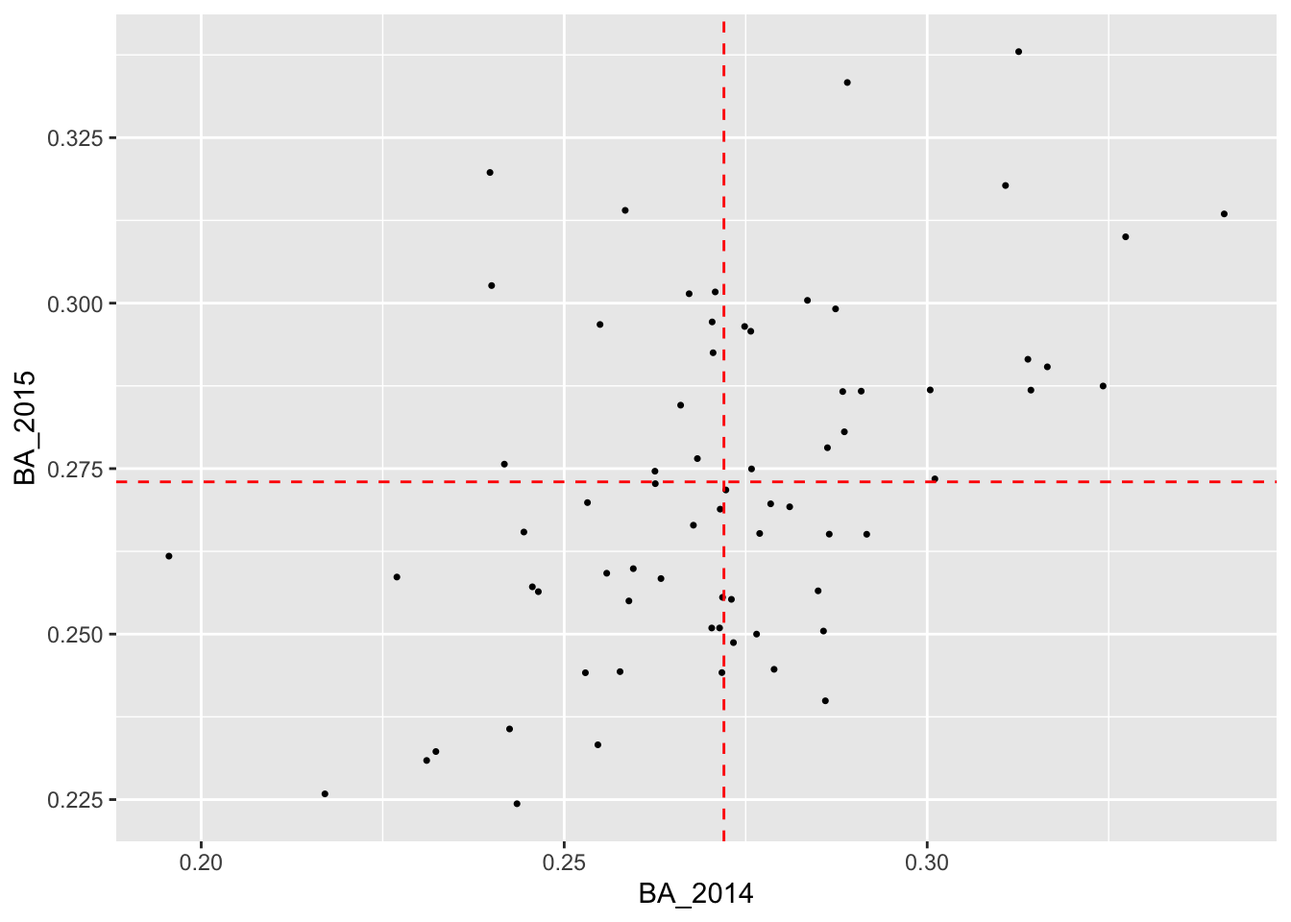
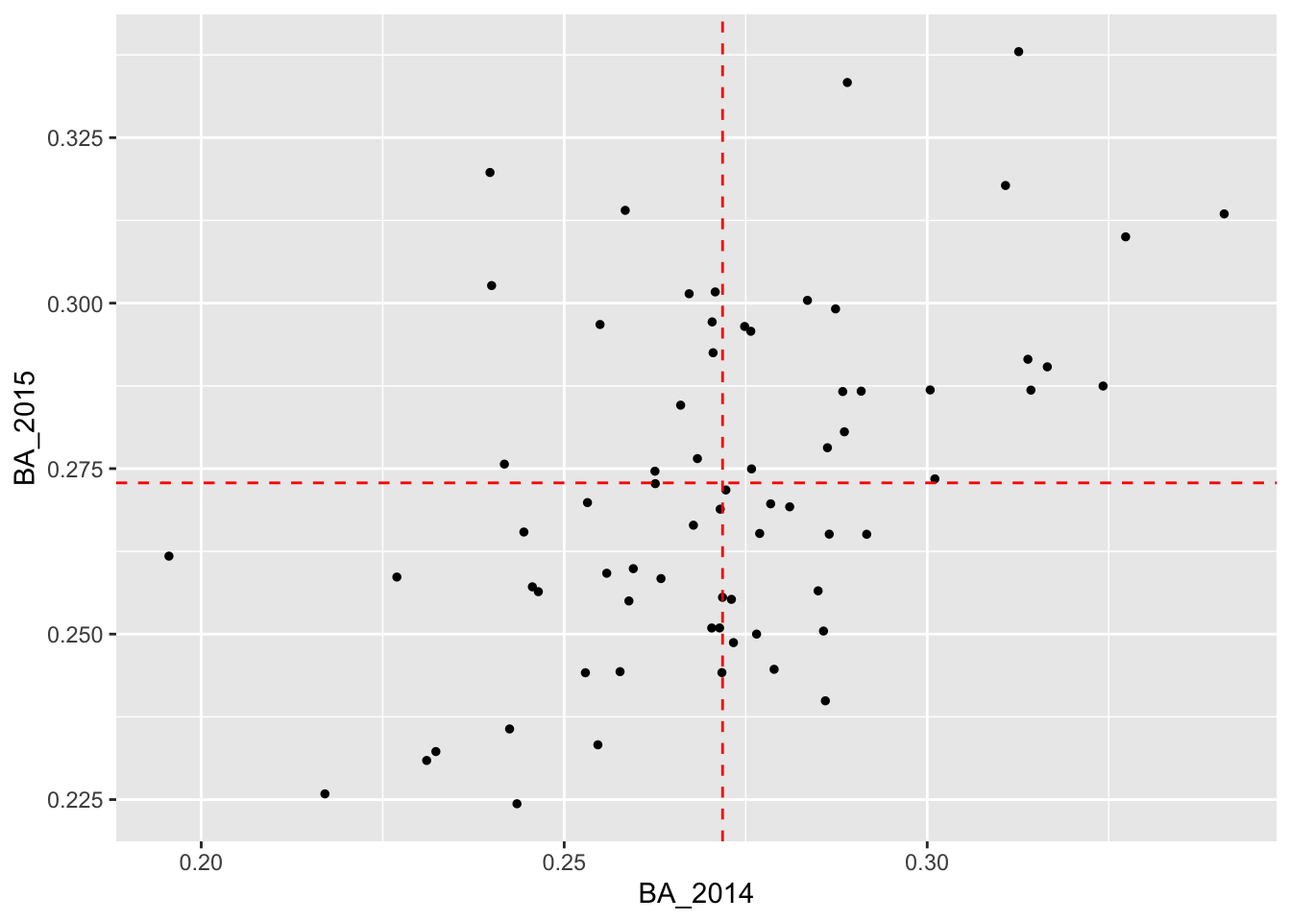
edits to lec 4

diff --git a/lecture4.html b/lecture4.html
@@ -583,7 +583,11 @@ how well each method predicts the actual 2015 batting averages in our
 tbl. We will add columns to our tbl containing these predictions. To get
 things started, let’s add a column containing the overall mean of the
 2015 batting averages. It turns out that this mean is 0.273, whereas the
-mean 2014 batting average is 0.272.</p>
+mean 2014 batting average is 0.272. We will set these values equal to
+the variables <code>avg_2014</code>, and <code>avg_2015</code>,
+respectively, to use in our plots. We can do this by utilizing the
+<code>$</code> operator to feed an entire column into our
+<code>mean()</code> function.</p>
 <div class="sourceCode" id="cb8"><pre class="sourceCode r"><code class="sourceCode r"><span id="cb8-1"><a href="#cb8-1" tabindex="-1"></a>batting_2014_2015 <span class="ot">&lt;-</span></span>
 <span id="cb8-2"><a href="#cb8-2" tabindex="-1"></a>  batting_2014_2015 <span class="sc">%&gt;%</span> </span>
 <span id="cb8-3"><a href="#cb8-3" tabindex="-1"></a>  <span class="fu">mutate</span>(<span class="at">yhat_0 =</span> <span class="fu">mean</span>(BA_2015))</span>
@@ -602,17 +606,19 @@ mean 2014 batting average is 0.272.</p>
 ##  9 brantmi02   0.327   0.310  0.273
 ## 10 braunry02   0.266   0.285  0.273
 ## # ℹ 60 more rows</code></pre>
+<div class="sourceCode" id="cb10"><pre class="sourceCode r"><code class="sourceCode r"><span id="cb10-1"><a href="#cb10-1" tabindex="-1"></a>avg_2014 <span class="ot">=</span> <span class="fu">mean</span>(batting_2014_2015<span class="sc">$</span>BA_2014)</span>
+<span id="cb10-2"><a href="#cb10-2" tabindex="-1"></a>avg_2015 <span class="ot">=</span> <span class="fu">mean</span>(batting_2014_2015<span class="sc">$</span>BA_2015)</span></code></pre></div>
 <p>If the 2014 batting average had no predictive power at all, then this
 overall mean will be the best prediction model possible, given what data
 we have. Plotting the 2015 batting averages against the 2014 batting
 averages allows us to assess visually whether there is any relationship
-between the two variables.We have added dashed red horizontal and
+between the two variables. We have added dashed red horizontal and
 vertical lines at the overall means of the 2014 and 2015 data,
 respectively.</p>
-<div class="sourceCode" id="cb10"><pre class="sourceCode r"><code class="sourceCode r"><span id="cb10-1"><a href="#cb10-1" tabindex="-1"></a><span class="fu">ggplot</span>(batting_2014_2015) <span class="sc">+</span></span>
-<span id="cb10-2"><a href="#cb10-2" tabindex="-1"></a>  <span class="fu">geom_point</span>(<span class="fu">aes</span>(<span class="at">x =</span> BA_2014, <span class="at">y =</span> BA_2015), <span class="at">col =</span> <span class="st">&#39;black&#39;</span>, <span class="at">shape =</span> <span class="dv">16</span>, <span class="at">size =</span> <span class="fl">0.9</span>) <span class="sc">+</span></span>
-<span id="cb10-3"><a href="#cb10-3" tabindex="-1"></a>  <span class="fu">geom_hline</span>(<span class="at">yintercept =</span> <span class="fl">0.273</span>, <span class="at">col =</span> <span class="st">&#39;red&#39;</span>, <span class="at">lty =</span> <span class="dv">2</span>) <span class="sc">+</span></span>
-<span id="cb10-4"><a href="#cb10-4" tabindex="-1"></a>  <span class="fu">geom_vline</span>(<span class="at">xintercept =</span> <span class="fl">0.272</span>, <span class="at">col =</span> <span class="st">&#39;red&#39;</span>, <span class="at">lty =</span> <span class="dv">2</span>)</span></code></pre></div>
+<div class="sourceCode" id="cb11"><pre class="sourceCode r"><code class="sourceCode r"><span id="cb11-1"><a href="#cb11-1" tabindex="-1"></a><span class="fu">ggplot</span>(batting_2014_2015) <span class="sc">+</span></span>
+<span id="cb11-2"><a href="#cb11-2" tabindex="-1"></a>  <span class="fu">geom_point</span>(<span class="fu">aes</span>(<span class="at">x =</span> BA_2014, <span class="at">y =</span> BA_2015), <span class="at">col =</span> <span class="st">&#39;black&#39;</span>, <span class="at">size =</span> <span class="dv">1</span>) <span class="sc">+</span></span>
+<span id="cb11-3"><a href="#cb11-3" tabindex="-1"></a>  <span class="fu">geom_hline</span>(<span class="at">yintercept =</span> avg_2015, <span class="at">col =</span> <span class="st">&#39;red&#39;</span>, <span class="at">lty =</span> <span class="dv">2</span>) <span class="sc">+</span></span>
+<span id="cb11-4"><a href="#cb11-4" tabindex="-1"></a>  <span class="fu">geom_vline</span>(<span class="at">xintercept =</span> avg_2014, <span class="at">col =</span> <span class="st">&#39;red&#39;</span>, <span class="at">lty =</span> <span class="dv">2</span>)</span></code></pre></div>
 <p><img src="lecture4_files/figure-html/plot%20batting%20yhat_0-1.png" width="672" style="display: block; margin: auto;" /></p>
 <p>It certainly looks like there is a relationship! So it’s at least
 plausible that if we use the 2014 batting averages to make predictions
@@ -642,14 +648,14 @@ according to which interval they fall.</p>
 <p>The following code chunk does precisely that with two more steps:
 once we have made our predictions, we ungroup the tbl and we can drop
 the column indicating the interval in which our observation falls.</p>
-<div class="sourceCode" id="cb11"><pre class="sourceCode r"><code class="sourceCode r"><span id="cb11-1"><a href="#cb11-1" tabindex="-1"></a>batting_2014_2015 <span class="ot">&lt;-</span> </span>
-<span id="cb11-2"><a href="#cb11-2" tabindex="-1"></a>  batting_2014_2015 <span class="sc">%&gt;%</span></span>
-<span id="cb11-3"><a href="#cb11-3" tabindex="-1"></a>  <span class="fu">mutate</span>(<span class="at">bins =</span> <span class="fu">cut</span>(BA_2014, <span class="at">breaks =</span> <span class="fu">c</span>(<span class="fl">0.15</span>, <span class="fl">0.272</span>, <span class="fl">0.40</span>))) <span class="sc">%&gt;%</span></span>
-<span id="cb11-4"><a href="#cb11-4" tabindex="-1"></a>  <span class="fu">group_by</span>(bins) <span class="sc">%&gt;%</span></span>
-<span id="cb11-5"><a href="#cb11-5" tabindex="-1"></a>  <span class="fu">mutate</span>(<span class="at">yhat_1 =</span> <span class="fu">mean</span>(BA_2015)) <span class="sc">%&gt;%</span></span>
-<span id="cb11-6"><a href="#cb11-6" tabindex="-1"></a>  <span class="fu">ungroup</span>() <span class="sc">%&gt;%</span></span>
-<span id="cb11-7"><a href="#cb11-7" tabindex="-1"></a>  <span class="fu">select</span>(<span class="sc">-</span>bins)</span>
-<span id="cb11-8"><a href="#cb11-8" tabindex="-1"></a>batting_2014_2015</span></code></pre></div>
+<div class="sourceCode" id="cb12"><pre class="sourceCode r"><code class="sourceCode r"><span id="cb12-1"><a href="#cb12-1" tabindex="-1"></a>batting_2014_2015 <span class="ot">&lt;-</span> </span>
+<span id="cb12-2"><a href="#cb12-2" tabindex="-1"></a>  batting_2014_2015 <span class="sc">%&gt;%</span></span>
+<span id="cb12-3"><a href="#cb12-3" tabindex="-1"></a>  <span class="fu">mutate</span>(<span class="at">bins =</span> <span class="fu">cut</span>(BA_2014, <span class="at">breaks =</span> <span class="fu">c</span>(<span class="fl">0.15</span>, <span class="fl">0.272</span>, <span class="fl">0.40</span>))) <span class="sc">%&gt;%</span></span>
+<span id="cb12-4"><a href="#cb12-4" tabindex="-1"></a>  <span class="fu">group_by</span>(bins) <span class="sc">%&gt;%</span></span>
+<span id="cb12-5"><a href="#cb12-5" tabindex="-1"></a>  <span class="fu">mutate</span>(<span class="at">yhat_1 =</span> <span class="fu">mean</span>(BA_2015)) <span class="sc">%&gt;%</span></span>
+<span id="cb12-6"><a href="#cb12-6" tabindex="-1"></a>  <span class="fu">ungroup</span>() <span class="sc">%&gt;%</span></span>
+<span id="cb12-7"><a href="#cb12-7" tabindex="-1"></a>  <span class="fu">select</span>(<span class="sc">-</span>bins)</span>
+<span id="cb12-8"><a href="#cb12-8" tabindex="-1"></a>batting_2014_2015</span></code></pre></div>
 <pre><code>## # A tibble: 70 × 5
 ##    playerID  BA_2014 BA_2015 yhat_0 yhat_1
 ##    &lt;chr&gt;       &lt;dbl&gt;   &lt;dbl&gt;  &lt;dbl&gt;  &lt;dbl&gt;
@@ -678,10 +684,10 @@ second elements, 0.272, is the overall mean of the BA_2014 values. The
 last element, 0.40 is much greater than the largest BA_2014 value.</p>
 <p>Now that we have two different ways of predicting 2015 batting
 averages, let us see how they compare, visually.</p>
-<div class="sourceCode" id="cb13"><pre class="sourceCode r"><code class="sourceCode r"><span id="cb13-1"><a href="#cb13-1" tabindex="-1"></a><span class="fu">ggplot</span>(batting_2014_2015) <span class="sc">+</span></span>
-<span id="cb13-2"><a href="#cb13-2" tabindex="-1"></a>  <span class="fu">geom_point</span>(<span class="fu">aes</span>(<span class="at">x =</span> BA_2014, <span class="at">y =</span> BA_2015), <span class="at">col =</span> <span class="st">&#39;black&#39;</span>, <span class="at">shape =</span> <span class="dv">16</span>, <span class="at">size =</span> <span class="dv">2</span>) <span class="sc">+</span></span>
-<span id="cb13-3"><a href="#cb13-3" tabindex="-1"></a>  <span class="fu">geom_point</span>(<span class="fu">aes</span>(<span class="at">x =</span> BA_2014, <span class="at">y =</span> yhat_0), <span class="at">col =</span> <span class="st">&#39;lightcoral&#39;</span>, <span class="at">size =</span> <span class="dv">2</span>) <span class="sc">+</span> </span>
-<span id="cb13-4"><a href="#cb13-4" tabindex="-1"></a>  <span class="fu">geom_point</span>(<span class="fu">aes</span>(<span class="at">x =</span> BA_2014, <span class="at">y =</span> yhat_1), <span class="at">col =</span> <span class="st">&#39;lightblue&#39;</span>, <span class="at">size =</span> <span class="dv">2</span>)</span></code></pre></div>
+<div class="sourceCode" id="cb14"><pre class="sourceCode r"><code class="sourceCode r"><span id="cb14-1"><a href="#cb14-1" tabindex="-1"></a><span class="fu">ggplot</span>(batting_2014_2015) <span class="sc">+</span></span>
+<span id="cb14-2"><a href="#cb14-2" tabindex="-1"></a>  <span class="fu">geom_point</span>(<span class="fu">aes</span>(<span class="at">x =</span> BA_2014, <span class="at">y =</span> BA_2015), <span class="at">col =</span> <span class="st">&#39;black&#39;</span>, <span class="at">size =</span> <span class="dv">2</span>) <span class="sc">+</span></span>
+<span id="cb14-3"><a href="#cb14-3" tabindex="-1"></a>  <span class="fu">geom_point</span>(<span class="fu">aes</span>(<span class="at">x =</span> BA_2014, <span class="at">y =</span> yhat_0), <span class="at">col =</span> <span class="st">&#39;lightcoral&#39;</span>, <span class="at">size =</span> <span class="dv">2</span>) <span class="sc">+</span> </span>
+<span id="cb14-4"><a href="#cb14-4" tabindex="-1"></a>  <span class="fu">geom_point</span>(<span class="fu">aes</span>(<span class="at">x =</span> BA_2014, <span class="at">y =</span> yhat_1), <span class="at">col =</span> <span class="st">&#39;lightblue&#39;</span>, <span class="at">size =</span> <span class="dv">2</span>)</span></code></pre></div>
 <p><img src="lecture4_files/figure-html/plot%20batting%20yhat_1-1.png" width="672" style="display: block; margin: auto;" /></p>
 <p>Visually it appears that the blue points (corresponding to yhat_1)
 are a bit closer to the actual values than the red points (corresponding
@@ -697,22 +703,22 @@ wanted to divide the interval [0,1] into 10 equally sized intervals:
 (0,0.1], (0.1, 0.2], …, (0.9, 1]. To get the vector of cutpoints, we
 need to tell <code>seq()</code> either how many points we wanted or the
 spacing between the points:</p>
-<div class="sourceCode" id="cb14"><pre class="sourceCode r"><code class="sourceCode r"><span id="cb14-1"><a href="#cb14-1" tabindex="-1"></a><span class="fu">seq</span>(<span class="at">from =</span> <span class="dv">0</span>, <span class="at">to =</span> <span class="dv">1</span>, <span class="at">length =</span> <span class="dv">11</span>)</span></code></pre></div>
+<div class="sourceCode" id="cb15"><pre class="sourceCode r"><code class="sourceCode r"><span id="cb15-1"><a href="#cb15-1" tabindex="-1"></a><span class="fu">seq</span>(<span class="at">from =</span> <span class="dv">0</span>, <span class="at">to =</span> <span class="dv">1</span>, <span class="at">length =</span> <span class="dv">11</span>)</span></code></pre></div>
 <pre><code>##  [1] 0.0 0.1 0.2 0.3 0.4 0.5 0.6 0.7 0.8 0.9 1.0</code></pre>
-<div class="sourceCode" id="cb16"><pre class="sourceCode r"><code class="sourceCode r"><span id="cb16-1"><a href="#cb16-1" tabindex="-1"></a><span class="fu">seq</span>(<span class="at">from =</span> <span class="dv">0</span>, <span class="at">to =</span> <span class="dv">1</span>, <span class="at">by =</span> <span class="fl">0.1</span>)</span></code></pre></div>
+<div class="sourceCode" id="cb17"><pre class="sourceCode r"><code class="sourceCode r"><span id="cb17-1"><a href="#cb17-1" tabindex="-1"></a><span class="fu">seq</span>(<span class="at">from =</span> <span class="dv">0</span>, <span class="at">to =</span> <span class="dv">1</span>, <span class="at">by =</span> <span class="fl">0.1</span>)</span></code></pre></div>
 <pre><code>##  [1] 0.0 0.1 0.2 0.3 0.4 0.5 0.6 0.7 0.8 0.9 1.0</code></pre>
 <p>So let’s say we wanted to divide the 2014 batting averages into
 intervals of length 0.05 and predict 2015 batting averages using the
 average BA_2015 values within the resulting bins. We could run the
 following:</p>
-<div class="sourceCode" id="cb18"><pre class="sourceCode r"><code class="sourceCode r"><span id="cb18-1"><a href="#cb18-1" tabindex="-1"></a>batting_2014_2015 <span class="ot">&lt;-</span> </span>
-<span id="cb18-2"><a href="#cb18-2" tabindex="-1"></a>  batting_2014_2015 <span class="sc">%&gt;%</span></span>
-<span id="cb18-3"><a href="#cb18-3" tabindex="-1"></a>  <span class="fu">mutate</span>(<span class="at">bins =</span> <span class="fu">cut</span>(BA_2014, <span class="at">breaks =</span> <span class="fu">seq</span>(<span class="at">from =</span> <span class="fl">0.15</span>, <span class="at">to =</span> <span class="fl">0.4</span>, <span class="at">by =</span> <span class="fl">0.05</span>))) <span class="sc">%&gt;%</span></span>
-<span id="cb18-4"><a href="#cb18-4" tabindex="-1"></a>  <span class="fu">group_by</span>(bins) <span class="sc">%&gt;%</span></span>
-<span id="cb18-5"><a href="#cb18-5" tabindex="-1"></a>  <span class="fu">mutate</span>(<span class="at">yhat_2 =</span> <span class="fu">mean</span>(BA_2015)) <span class="sc">%&gt;%</span></span>
-<span id="cb18-6"><a href="#cb18-6" tabindex="-1"></a>  <span class="fu">ungroup</span>() <span class="sc">%&gt;%</span></span>
-<span id="cb18-7"><a href="#cb18-7" tabindex="-1"></a>  <span class="fu">select</span>(<span class="sc">-</span>bins)</span>
-<span id="cb18-8"><a href="#cb18-8" tabindex="-1"></a>batting_2014_2015</span></code></pre></div>
+<div class="sourceCode" id="cb19"><pre class="sourceCode r"><code class="sourceCode r"><span id="cb19-1"><a href="#cb19-1" tabindex="-1"></a>batting_2014_2015 <span class="ot">&lt;-</span> </span>
+<span id="cb19-2"><a href="#cb19-2" tabindex="-1"></a>  batting_2014_2015 <span class="sc">%&gt;%</span></span>
+<span id="cb19-3"><a href="#cb19-3" tabindex="-1"></a>  <span class="fu">mutate</span>(<span class="at">bins =</span> <span class="fu">cut</span>(BA_2014, <span class="at">breaks =</span> <span class="fu">seq</span>(<span class="at">from =</span> <span class="fl">0.15</span>, <span class="at">to =</span> <span class="fl">0.4</span>, <span class="at">by =</span> <span class="fl">0.05</span>))) <span class="sc">%&gt;%</span></span>
+<span id="cb19-4"><a href="#cb19-4" tabindex="-1"></a>  <span class="fu">group_by</span>(bins) <span class="sc">%&gt;%</span></span>
+<span id="cb19-5"><a href="#cb19-5" tabindex="-1"></a>  <span class="fu">mutate</span>(<span class="at">yhat_2 =</span> <span class="fu">mean</span>(BA_2015)) <span class="sc">%&gt;%</span></span>
+<span id="cb19-6"><a href="#cb19-6" tabindex="-1"></a>  <span class="fu">ungroup</span>() <span class="sc">%&gt;%</span></span>
+<span id="cb19-7"><a href="#cb19-7" tabindex="-1"></a>  <span class="fu">select</span>(<span class="sc">-</span>bins)</span>
+<span id="cb19-8"><a href="#cb19-8" tabindex="-1"></a>batting_2014_2015</span></code></pre></div>
 <pre><code>## # A tibble: 70 × 6
 ##    playerID  BA_2014 BA_2015 yhat_0 yhat_1 yhat_2
 ##    &lt;chr&gt;       &lt;dbl&gt;   &lt;dbl&gt;  &lt;dbl&gt;  &lt;dbl&gt;  &lt;dbl&gt;
@@ -729,11 +735,11 @@ following:</p>
 ## # ℹ 60 more rows</code></pre>
 <p>We can also visualize our new predictions, this time with green
 points.</p>
-<div class="sourceCode" id="cb20"><pre class="sourceCode r"><code class="sourceCode r"><span id="cb20-1"><a href="#cb20-1" tabindex="-1"></a><span class="fu">ggplot</span>(batting_2014_2015) <span class="sc">+</span></span>
-<span id="cb20-2"><a href="#cb20-2" tabindex="-1"></a>  <span class="fu">geom_point</span>(<span class="fu">aes</span>(<span class="at">x =</span> BA_2014, <span class="at">y =</span> BA_2015), <span class="at">shape =</span> <span class="dv">16</span>, <span class="at">size =</span> <span class="dv">2</span>) <span class="sc">+</span> </span>
-<span id="cb20-3"><a href="#cb20-3" tabindex="-1"></a>  <span class="fu">geom_point</span>(<span class="fu">aes</span>(<span class="at">x =</span> BA_2014, <span class="at">y =</span> yhat_0), <span class="at">col =</span> <span class="st">&#39;lightcoral&#39;</span>, <span class="at">size =</span> <span class="dv">2</span>, <span class="at">alpha =</span> <span class="fl">0.8</span>) <span class="sc">+</span> </span>
-<span id="cb20-4"><a href="#cb20-4" tabindex="-1"></a>  <span class="fu">geom_point</span>(<span class="fu">aes</span>(<span class="at">x =</span> BA_2014, <span class="at">y =</span> yhat_1), <span class="at">col =</span> <span class="st">&#39;lightblue&#39;</span>,  <span class="at">size =</span> <span class="dv">2</span>, <span class="at">alpha =</span> <span class="fl">0.8</span>) <span class="sc">+</span></span>
-<span id="cb20-5"><a href="#cb20-5" tabindex="-1"></a>  <span class="fu">geom_point</span>(<span class="fu">aes</span>(<span class="at">x =</span> BA_2014, <span class="at">y =</span> yhat_2), <span class="at">col =</span> <span class="st">&#39;darkseagreen3&#39;</span>, <span class="at">size =</span> <span class="dv">2</span>, <span class="at">alpha =</span> <span class="fl">0.8</span>)</span></code></pre></div>
+<div class="sourceCode" id="cb21"><pre class="sourceCode r"><code class="sourceCode r"><span id="cb21-1"><a href="#cb21-1" tabindex="-1"></a><span class="fu">ggplot</span>(batting_2014_2015) <span class="sc">+</span></span>
+<span id="cb21-2"><a href="#cb21-2" tabindex="-1"></a>  <span class="fu">geom_point</span>(<span class="fu">aes</span>(<span class="at">x =</span> BA_2014, <span class="at">y =</span> BA_2015), <span class="at">size =</span> <span class="dv">2</span>) <span class="sc">+</span> </span>
+<span id="cb21-3"><a href="#cb21-3" tabindex="-1"></a>  <span class="fu">geom_point</span>(<span class="fu">aes</span>(<span class="at">x =</span> BA_2014, <span class="at">y =</span> yhat_0), <span class="at">col =</span> <span class="st">&#39;lightcoral&#39;</span>, <span class="at">size =</span> <span class="dv">2</span>, <span class="at">alpha =</span> <span class="fl">0.8</span>) <span class="sc">+</span> </span>
+<span id="cb21-4"><a href="#cb21-4" tabindex="-1"></a>  <span class="fu">geom_point</span>(<span class="fu">aes</span>(<span class="at">x =</span> BA_2014, <span class="at">y =</span> yhat_1), <span class="at">col =</span> <span class="st">&#39;lightblue&#39;</span>,  <span class="at">size =</span> <span class="dv">2</span>, <span class="at">alpha =</span> <span class="fl">0.8</span>) <span class="sc">+</span></span>
+<span id="cb21-5"><a href="#cb21-5" tabindex="-1"></a>  <span class="fu">geom_point</span>(<span class="fu">aes</span>(<span class="at">x =</span> BA_2014, <span class="at">y =</span> yhat_2), <span class="at">col =</span> <span class="st">&#39;darkseagreen3&#39;</span>, <span class="at">size =</span> <span class="dv">2</span>, <span class="at">alpha =</span> <span class="fl">0.8</span>)</span></code></pre></div>
 <p><img src="lecture4_files/figure-html/plot%20batting%20yhat_2-1.png" width="672" style="display: block; margin: auto;" /></p>
 <p>It appears that we are able to perfectly predict the 2015 batting
 average of the player with the lowest batting average in 2014. Why do
@@ -743,29 +749,29 @@ averages into bins of length 0.005 and 0.001. The code below generates
 these predictions, saves them to columns called “yhat_3” and “yhat_4” in
 our tbl, and then adds the predictions to the plot in pink and
 orange.</p>
-<div class="sourceCode" id="cb21"><pre class="sourceCode r"><code class="sourceCode r"><span id="cb21-1"><a href="#cb21-1" tabindex="-1"></a>batting_2014_2015 <span class="ot">&lt;-</span> </span>
-<span id="cb21-2"><a href="#cb21-2" tabindex="-1"></a>  batting_2014_2015 <span class="sc">%&gt;%</span></span>
-<span id="cb21-3"><a href="#cb21-3" tabindex="-1"></a>  <span class="fu">mutate</span>(<span class="at">bins =</span> <span class="fu">cut</span>(BA_2014, <span class="at">breaks =</span> <span class="fu">seq</span>(<span class="at">from =</span> <span class="fl">0.15</span>, <span class="at">to =</span> <span class="fl">0.4</span>, <span class="at">by =</span> <span class="fl">0.005</span>))) <span class="sc">%&gt;%</span></span>
-<span id="cb21-4"><a href="#cb21-4" tabindex="-1"></a>  <span class="fu">group_by</span>(bins) <span class="sc">%&gt;%</span></span>
-<span id="cb21-5"><a href="#cb21-5" tabindex="-1"></a>  <span class="fu">mutate</span>(<span class="at">yhat_3 =</span> <span class="fu">mean</span>(BA_2015)) <span class="sc">%&gt;%</span></span>
-<span id="cb21-6"><a href="#cb21-6" tabindex="-1"></a>  <span class="fu">ungroup</span>() <span class="sc">%&gt;%</span></span>
-<span id="cb21-7"><a href="#cb21-7" tabindex="-1"></a>  <span class="fu">select</span>(<span class="sc">-</span>bins)</span>
-<span id="cb21-8"><a href="#cb21-8" tabindex="-1"></a></span>
-<span id="cb21-9"><a href="#cb21-9" tabindex="-1"></a>batting_2014_2015 <span class="ot">&lt;-</span> </span>
-<span id="cb21-10"><a href="#cb21-10" tabindex="-1"></a>  batting_2014_2015 <span class="sc">%&gt;%</span></span>
-<span id="cb21-11"><a href="#cb21-11" tabindex="-1"></a>  <span class="fu">mutate</span>(<span class="at">bins =</span> <span class="fu">cut</span>(BA_2014, <span class="at">breaks =</span> <span class="fu">seq</span>(<span class="at">from =</span> <span class="fl">0.15</span>, <span class="at">to =</span> <span class="fl">0.4</span>, <span class="at">by =</span> <span class="fl">0.001</span>))) <span class="sc">%&gt;%</span></span>
-<span id="cb21-12"><a href="#cb21-12" tabindex="-1"></a>  <span class="fu">group_by</span>(bins) <span class="sc">%&gt;%</span></span>
-<span id="cb21-13"><a href="#cb21-13" tabindex="-1"></a>  <span class="fu">mutate</span>(<span class="at">yhat_4 =</span> <span class="fu">mean</span>(BA_2015)) <span class="sc">%&gt;%</span></span>
-<span id="cb21-14"><a href="#cb21-14" tabindex="-1"></a>  <span class="fu">ungroup</span>() <span class="sc">%&gt;%</span></span>
-<span id="cb21-15"><a href="#cb21-15" tabindex="-1"></a>  <span class="fu">select</span>(<span class="sc">-</span>bins)</span>
-<span id="cb21-16"><a href="#cb21-16" tabindex="-1"></a></span>
-<span id="cb21-17"><a href="#cb21-17" tabindex="-1"></a><span class="fu">ggplot</span>(batting_2014_2015) <span class="sc">+</span></span>
-<span id="cb21-18"><a href="#cb21-18" tabindex="-1"></a>  <span class="fu">geom_point</span>(<span class="fu">aes</span>(<span class="at">x =</span> BA_2014, <span class="at">y =</span> BA_2015), <span class="at">size =</span> <span class="dv">2</span>) <span class="sc">+</span> </span>
-<span id="cb21-19"><a href="#cb21-19" tabindex="-1"></a>  <span class="fu">geom_point</span>(<span class="fu">aes</span>(<span class="at">x =</span> BA_2014, <span class="at">y =</span> yhat_0), <span class="at">col =</span> <span class="st">&#39;lightcoral&#39;</span>, <span class="at">size =</span> <span class="dv">2</span>) <span class="sc">+</span> </span>
-<span id="cb21-20"><a href="#cb21-20" tabindex="-1"></a>  <span class="fu">geom_point</span>(<span class="fu">aes</span>(<span class="at">x =</span> BA_2014, <span class="at">y =</span> yhat_1), <span class="at">col =</span> <span class="st">&#39;lightblue&#39;</span>, <span class="at">size =</span> <span class="dv">2</span>) <span class="sc">+</span></span>
-<span id="cb21-21"><a href="#cb21-21" tabindex="-1"></a>  <span class="fu">geom_point</span>(<span class="fu">aes</span>(<span class="at">x =</span> BA_2014, <span class="at">y =</span> yhat_2), <span class="at">col =</span> <span class="st">&#39;darkseagreen3&#39;</span>, <span class="at">size =</span> <span class="dv">2</span>) <span class="sc">+</span></span>
-<span id="cb21-22"><a href="#cb21-22" tabindex="-1"></a>  <span class="fu">geom_point</span>(<span class="fu">aes</span>(<span class="at">x =</span> BA_2014, <span class="at">y =</span> yhat_3), <span class="at">col =</span> <span class="st">&#39;hotpink&#39;</span>, <span class="at">size =</span> <span class="dv">2</span>) <span class="sc">+</span> </span>
-<span id="cb21-23"><a href="#cb21-23" tabindex="-1"></a>  <span class="fu">geom_point</span>(<span class="fu">aes</span>(<span class="at">x =</span> BA_2014, <span class="at">y =</span> yhat_4), <span class="at">col =</span> <span class="st">&#39;darkorange&#39;</span>, <span class="at">size =</span> <span class="fl">1.5</span>, <span class="at">alpha =</span> .<span class="dv">7</span>) </span></code></pre></div>
+<div class="sourceCode" id="cb22"><pre class="sourceCode r"><code class="sourceCode r"><span id="cb22-1"><a href="#cb22-1" tabindex="-1"></a>batting_2014_2015 <span class="ot">&lt;-</span> </span>
+<span id="cb22-2"><a href="#cb22-2" tabindex="-1"></a>  batting_2014_2015 <span class="sc">%&gt;%</span></span>
+<span id="cb22-3"><a href="#cb22-3" tabindex="-1"></a>  <span class="fu">mutate</span>(<span class="at">bins =</span> <span class="fu">cut</span>(BA_2014, <span class="at">breaks =</span> <span class="fu">seq</span>(<span class="at">from =</span> <span class="fl">0.15</span>, <span class="at">to =</span> <span class="fl">0.4</span>, <span class="at">by =</span> <span class="fl">0.005</span>))) <span class="sc">%&gt;%</span></span>
+<span id="cb22-4"><a href="#cb22-4" tabindex="-1"></a>  <span class="fu">group_by</span>(bins) <span class="sc">%&gt;%</span></span>
+<span id="cb22-5"><a href="#cb22-5" tabindex="-1"></a>  <span class="fu">mutate</span>(<span class="at">yhat_3 =</span> <span class="fu">mean</span>(BA_2015)) <span class="sc">%&gt;%</span></span>
+<span id="cb22-6"><a href="#cb22-6" tabindex="-1"></a>  <span class="fu">ungroup</span>() <span class="sc">%&gt;%</span></span>
+<span id="cb22-7"><a href="#cb22-7" tabindex="-1"></a>  <span class="fu">select</span>(<span class="sc">-</span>bins)</span>
+<span id="cb22-8"><a href="#cb22-8" tabindex="-1"></a></span>
+<span id="cb22-9"><a href="#cb22-9" tabindex="-1"></a>batting_2014_2015 <span class="ot">&lt;-</span> </span>
+<span id="cb22-10"><a href="#cb22-10" tabindex="-1"></a>  batting_2014_2015 <span class="sc">%&gt;%</span></span>
+<span id="cb22-11"><a href="#cb22-11" tabindex="-1"></a>  <span class="fu">mutate</span>(<span class="at">bins =</span> <span class="fu">cut</span>(BA_2014, <span class="at">breaks =</span> <span class="fu">seq</span>(<span class="at">from =</span> <span class="fl">0.15</span>, <span class="at">to =</span> <span class="fl">0.4</span>, <span class="at">by =</span> <span class="fl">0.001</span>))) <span class="sc">%&gt;%</span></span>
+<span id="cb22-12"><a href="#cb22-12" tabindex="-1"></a>  <span class="fu">group_by</span>(bins) <span class="sc">%&gt;%</span></span>
+<span id="cb22-13"><a href="#cb22-13" tabindex="-1"></a>  <span class="fu">mutate</span>(<span class="at">yhat_4 =</span> <span class="fu">mean</span>(BA_2015)) <span class="sc">%&gt;%</span></span>
+<span id="cb22-14"><a href="#cb22-14" tabindex="-1"></a>  <span class="fu">ungroup</span>() <span class="sc">%&gt;%</span></span>
+<span id="cb22-15"><a href="#cb22-15" tabindex="-1"></a>  <span class="fu">select</span>(<span class="sc">-</span>bins)</span>
+<span id="cb22-16"><a href="#cb22-16" tabindex="-1"></a></span>
+<span id="cb22-17"><a href="#cb22-17" tabindex="-1"></a><span class="fu">ggplot</span>(batting_2014_2015) <span class="sc">+</span></span>
+<span id="cb22-18"><a href="#cb22-18" tabindex="-1"></a>  <span class="fu">geom_point</span>(<span class="fu">aes</span>(<span class="at">x =</span> BA_2014, <span class="at">y =</span> BA_2015), <span class="at">size =</span> <span class="dv">2</span>) <span class="sc">+</span> </span>
+<span id="cb22-19"><a href="#cb22-19" tabindex="-1"></a>  <span class="fu">geom_point</span>(<span class="fu">aes</span>(<span class="at">x =</span> BA_2014, <span class="at">y =</span> yhat_0), <span class="at">col =</span> <span class="st">&#39;lightcoral&#39;</span>, <span class="at">size =</span> <span class="dv">2</span>) <span class="sc">+</span> </span>
+<span id="cb22-20"><a href="#cb22-20" tabindex="-1"></a>  <span class="fu">geom_point</span>(<span class="fu">aes</span>(<span class="at">x =</span> BA_2014, <span class="at">y =</span> yhat_1), <span class="at">col =</span> <span class="st">&#39;lightblue&#39;</span>, <span class="at">size =</span> <span class="dv">2</span>) <span class="sc">+</span></span>
+<span id="cb22-21"><a href="#cb22-21" tabindex="-1"></a>  <span class="fu">geom_point</span>(<span class="fu">aes</span>(<span class="at">x =</span> BA_2014, <span class="at">y =</span> yhat_2), <span class="at">col =</span> <span class="st">&#39;darkseagreen3&#39;</span>, <span class="at">size =</span> <span class="dv">2</span>) <span class="sc">+</span></span>
+<span id="cb22-22"><a href="#cb22-22" tabindex="-1"></a>  <span class="fu">geom_point</span>(<span class="fu">aes</span>(<span class="at">x =</span> BA_2014, <span class="at">y =</span> yhat_3), <span class="at">col =</span> <span class="st">&#39;hotpink&#39;</span>, <span class="at">size =</span> <span class="dv">2</span>) <span class="sc">+</span> </span>
+<span id="cb22-23"><a href="#cb22-23" tabindex="-1"></a>  <span class="fu">geom_point</span>(<span class="fu">aes</span>(<span class="at">x =</span> BA_2014, <span class="at">y =</span> yhat_4), <span class="at">col =</span> <span class="st">&#39;darkorange&#39;</span>, <span class="at">size =</span> <span class="fl">1.5</span>, <span class="at">alpha =</span> .<span class="dv">7</span>) </span></code></pre></div>
 <p><img src="lecture4_files/figure-html/batting%20yhat_3%20yhat_4%20plot-1.png" width="672" style="display: block; margin: auto;" />
 Here, we can see that some of the orange points are directly on top of
 the actual values.</p>
@@ -780,12 +786,12 @@ quantitatively, we often rely on the root mean square error or RMSE.
 This is the square root of the mean square error (MSE), which is
 computed by averaging the squared difference between the actual values
 and the predicted values.</p>
-<div class="sourceCode" id="cb22"><pre class="sourceCode r"><code class="sourceCode r"><span id="cb22-1"><a href="#cb22-1" tabindex="-1"></a><span class="fu">reframe</span>(batting_2014_2015, </span>
-<span id="cb22-2"><a href="#cb22-2" tabindex="-1"></a>          <span class="at">rmse_0 =</span> <span class="fu">sqrt</span>(<span class="fu">mean</span>((BA_2015 <span class="sc">-</span> yhat_0)<span class="sc">^</span><span class="dv">2</span>)),</span>
-<span id="cb22-3"><a href="#cb22-3" tabindex="-1"></a>          <span class="at">rmse_1 =</span> <span class="fu">sqrt</span>(<span class="fu">mean</span>((BA_2015 <span class="sc">-</span> yhat_1)<span class="sc">^</span><span class="dv">2</span>)),</span>
-<span id="cb22-4"><a href="#cb22-4" tabindex="-1"></a>          <span class="at">rmse_2 =</span> <span class="fu">sqrt</span>(<span class="fu">mean</span>((BA_2015 <span class="sc">-</span> yhat_2)<span class="sc">^</span><span class="dv">2</span>)),</span>
-<span id="cb22-5"><a href="#cb22-5" tabindex="-1"></a>          <span class="at">rmse_3 =</span> <span class="fu">sqrt</span>(<span class="fu">mean</span>((BA_2015 <span class="sc">-</span> yhat_3)<span class="sc">^</span><span class="dv">2</span>)),</span>
-<span id="cb22-6"><a href="#cb22-6" tabindex="-1"></a>          <span class="at">rmse_4 =</span> <span class="fu">sqrt</span>(<span class="fu">mean</span>((BA_2015 <span class="sc">-</span> yhat_4)<span class="sc">^</span><span class="dv">2</span>)))</span></code></pre></div>
+<div class="sourceCode" id="cb23"><pre class="sourceCode r"><code class="sourceCode r"><span id="cb23-1"><a href="#cb23-1" tabindex="-1"></a><span class="fu">reframe</span>(batting_2014_2015, </span>
+<span id="cb23-2"><a href="#cb23-2" tabindex="-1"></a>          <span class="at">rmse_0 =</span> <span class="fu">sqrt</span>(<span class="fu">mean</span>((BA_2015 <span class="sc">-</span> yhat_0)<span class="sc">^</span><span class="dv">2</span>)),</span>
+<span id="cb23-3"><a href="#cb23-3" tabindex="-1"></a>          <span class="at">rmse_1 =</span> <span class="fu">sqrt</span>(<span class="fu">mean</span>((BA_2015 <span class="sc">-</span> yhat_1)<span class="sc">^</span><span class="dv">2</span>)),</span>
+<span id="cb23-4"><a href="#cb23-4" tabindex="-1"></a>          <span class="at">rmse_2 =</span> <span class="fu">sqrt</span>(<span class="fu">mean</span>((BA_2015 <span class="sc">-</span> yhat_2)<span class="sc">^</span><span class="dv">2</span>)),</span>
+<span id="cb23-5"><a href="#cb23-5" tabindex="-1"></a>          <span class="at">rmse_3 =</span> <span class="fu">sqrt</span>(<span class="fu">mean</span>((BA_2015 <span class="sc">-</span> yhat_3)<span class="sc">^</span><span class="dv">2</span>)),</span>
+<span id="cb23-6"><a href="#cb23-6" tabindex="-1"></a>          <span class="at">rmse_4 =</span> <span class="fu">sqrt</span>(<span class="fu">mean</span>((BA_2015 <span class="sc">-</span> yhat_4)<span class="sc">^</span><span class="dv">2</span>)))</span></code></pre></div>
 <pre><code>## # A tibble: 1 × 5
 ##   rmse_0 rmse_1 rmse_2 rmse_3 rmse_4
 ##    &lt;dbl&gt;  &lt;dbl&gt;  &lt;dbl&gt;  &lt;dbl&gt;  &lt;dbl&gt;
